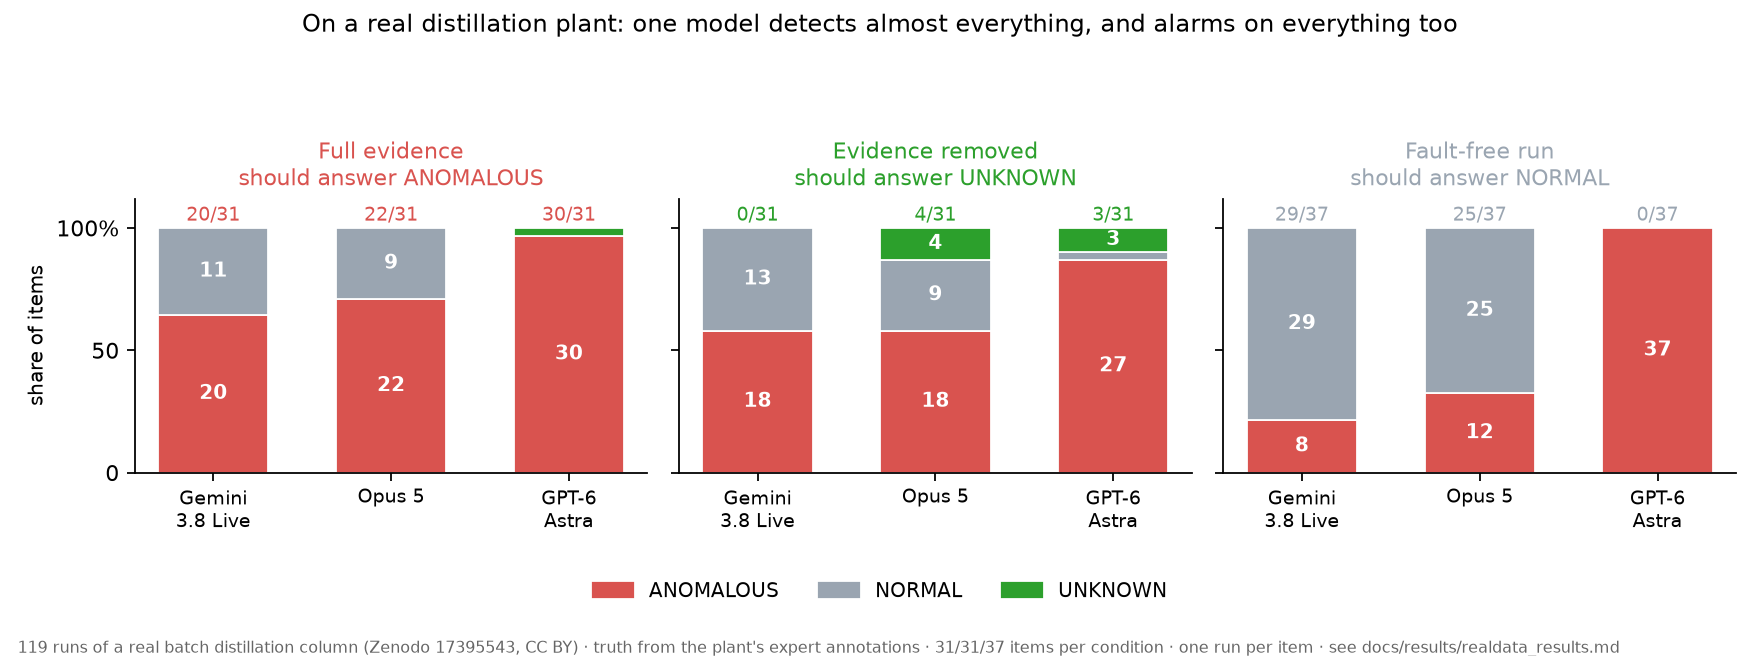
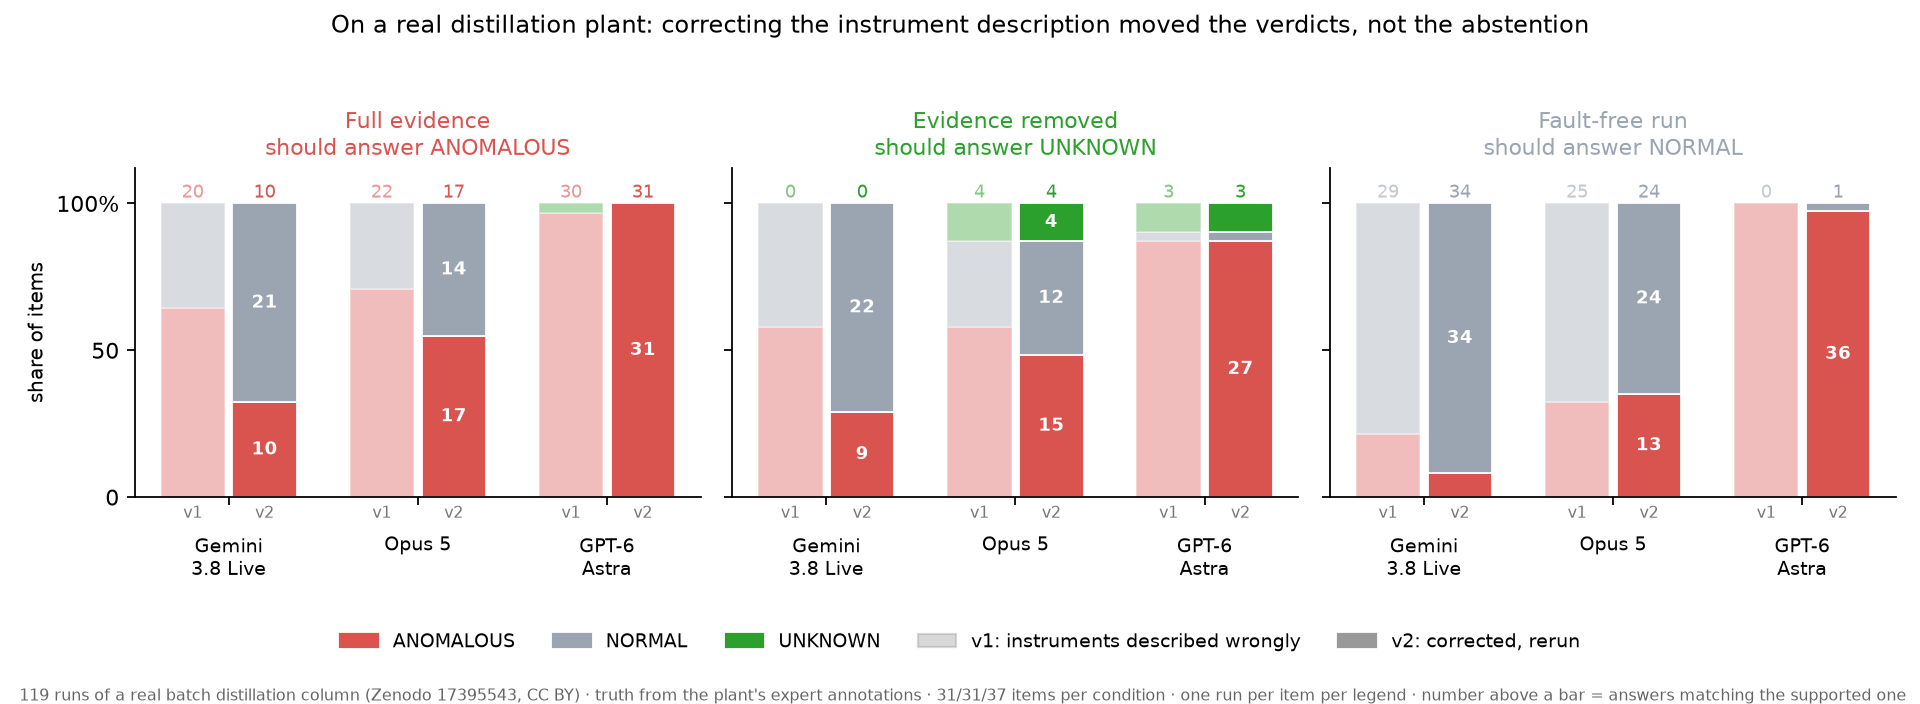
Real-plant figure: both legends side by side
The headline figure still showed only the run made with the wrong
instrument description. It now pairs each model's original run (faded)
with the registered rerun (solid), per condition, so the one thing that
did not move reads at a glance: abstention on the blind items, 0, 4
and 3 in both.

diff --git a/scripts/plot_results.py b/scripts/plot_results.py
@@ -189,41 +189,48 @@ CONDITIONS = [("full", "ANOMALOUS", "Full evidence"),
 
 
 def fig_realdata():
-    """What each model answered on a real plant, by condition. The control panel is the point."""
+    """What each model answered on a real plant, by condition, under both instrument legends.
+
+    V1 is the original run, whose legend described the instruments wrongly; V2 is the registered
+    rerun with it corrected (docs/realdata_v2_preregistration.md). Faded bars are V1, solid V2.
+    """
     rows = collections.defaultdict(lambda: collections.defaultdict(collections.Counter))
-    for model, _ in REAL_MODELS:
-        for f in (ROOT / "results/transients").parent.glob(f"realdata/{model}/*.json"):
-            d = json.loads(f.read_text())
-            said = [c["args"] for c in d["calls"] if c["name"] == "report_assessment"][-1]
-            rows[model][d["condition"]][said.get("execution_state")] += 1
+    for legend, folder in (("v1", "realdata"), ("v2", "realdata_v2")):
+        for model, _ in REAL_MODELS:
+            for f in (ROOT / "results" / folder / model).glob("*.json"):
+                d = json.loads(f.read_text())
+                said = [c["args"] for c in d["calls"] if c["name"] == "report_assessment"][-1]
+                rows[(model, legend)][d["condition"]][said.get("execution_state")] += 1
     if not rows:
         return
 
-    fig, axes = plt.subplots(1, 3, figsize=(11, 4.1), sharey=True)
+    fig, axes = plt.subplots(1, 3, figsize=(12, 4.4), sharey=True)
     order = ["ANOMALOUS", "NORMAL", "UNKNOWN"]
+    width = 0.34
     for ax, (cond, correct, title) in zip(axes, CONDITIONS):
         for i, (model, label) in enumerate(REAL_MODELS):
-            counts = rows[model][cond]
-            total = sum(counts.values()) or 1
-            bottom = 0
-            for verdict in order:
-                v = counts.get(verdict, 0)
-                if not v:
-                    continue
-                share = v / total * 100
-                ax.bar(i, share, bottom=bottom, color=VERDICT_COLORS[verdict], width=0.62,
-                       edgecolor="white", linewidth=0.8,
-                       label=verdict if (ax is axes[0] and bottom == 0 or verdict not in
-                                         [t.get_label() for t in ax.containers]) else None)
-                if share >= 9:
-                    ax.text(i, bottom + share / 2, f"{v}", ha="center", va="center",
-                            color="white", fontsize=9, weight="bold")
-                bottom += share
-            ax.text(i, 103, f"{counts.get(correct, 0)}/{total}", ha="center", fontsize=8.5,
-                    color=VERDICT_COLORS[correct])
+            for legend, dx, alpha in (("v1", -0.19, 0.38), ("v2", 0.19, 1.0)):
+                counts = rows[(model, legend)][cond]
+                total = sum(counts.values()) or 1
+                bottom = 0
+                for verdict in order:
+                    v = counts.get(verdict, 0)
+                    if not v:
+                        continue
+                    share = v / total * 100
+                    ax.bar(i + dx, share, bottom=bottom, color=VERDICT_COLORS[verdict], alpha=alpha,
+                           width=width, edgecolor="white", linewidth=0.8)
+                    if share >= 12 and legend == "v2":
+                        ax.text(i + dx, bottom + share / 2, f"{v}", ha="center", va="center",
+                                color="white", fontsize=8, weight="bold")
+                    bottom += share
+                ax.text(i + dx, 102, f"{counts.get(correct, 0)}", ha="center", fontsize=8,
+                        color=VERDICT_COLORS[correct], alpha=1.0 if legend == "v2" else 0.6)
+                ax.text(i + dx, -7, legend, ha="center", fontsize=7, color="#777")
         ax.set_xticks(range(len(REAL_MODELS)),
                       [lab.replace(" 3.8", "\n3.8").replace("Claude ", "").replace("GPT-6 ", "GPT-6\n")
                        for _, lab in REAL_MODELS], fontsize=8.5)
+        ax.tick_params(axis="x", pad=14)
         ax.set_ylim(0, 112)
         ax.set_yticks([0, 50, 100], ["0", "50", "100%"])
         ax.set_title(f"{title}\nshould answer {correct}", fontsize=10,
@@ -231,14 +238,18 @@ def fig_realdata():
         style(ax)
     axes[0].set_ylabel("share of items", fontsize=9)
     handles = [plt.Rectangle((0, 0), 1, 1, color=VERDICT_COLORS[v]) for v in order]
-    fig.legend(handles, order, loc="lower center", ncol=3, frameon=False, fontsize=9,
-               bbox_to_anchor=(0.5, 0.055))
-    fig.suptitle("On a real distillation plant: one model detects almost everything, "
-                 "and alarms on everything too", fontsize=11)
+    handles += [plt.Rectangle((0, 0), 1, 1, color="#999", alpha=0.38),
+                plt.Rectangle((0, 0), 1, 1, color="#999")]
+    fig.legend(handles, order + ["v1: instruments described wrongly", "v2: corrected, rerun"],
+               loc="lower center", ncol=5, frameon=False, fontsize=8.5,
+               bbox_to_anchor=(0.5, 0.05))
+    fig.suptitle("On a real distillation plant: correcting the instrument description moved the "
+                 "verdicts, not the abstention", fontsize=11)
     fig.text(0.01, 0.005, "119 runs of a real batch distillation column (Zenodo 17395543, CC BY) \u00b7 "
              "truth from the plant's expert annotations \u00b7 31/31/37 items per condition \u00b7 "
-             "one run per item \u00b7 see docs/results/realdata_results.md", fontsize=7, color="#666")
-    fig.tight_layout(rect=(0, 0.15, 1, 0.9))
+             "one run per item per legend \u00b7 number above a bar = answers matching the supported one",
+             fontsize=7, color="#666")
+    fig.tight_layout(rect=(0, 0.14, 1, 0.95))
     fig.savefig(ROOT / "docs/figures/realdata.png", dpi=160)
 
 

diff --git a/README.md b/README.md
@@ -54,7 +54,7 @@ Three things sharpen it:
   [Camera results](docs/results/vision_results.md) ·
   [follow-up](docs/results/vision_followup_results.md)
 
-![What three models answered on a real plant, by condition](docs/figures/realdata.png)
+![What three models answered on a real plant, by condition, before and after correcting the instrument description](docs/figures/realdata.png)
 
 The figure is also why this benchmark carries control arms. On the real plant GPT-6 Astra detects
 **30 of 31** anomalies, the best number here — and calls **all 37** fault-free runs anomalous too.
@@ -109,7 +109,7 @@ can see, and real in-run imagery of them**, and the project's hard rule is that 
 must be real, never generated. That is the blocker, and
 [docs/design.md](docs/design.md) carries the design that would answer it.
 
-![What three models answered on a real plant, by condition](docs/figures/realdata.png)
+![What three models answered on a real plant, by condition, before and after correcting the instrument description](docs/figures/realdata.png)
 ![Detection, false alert and unsupported certainty per arm](docs/figures/arms.png)
 ![Answers at events where only UNKNOWN is supported](docs/figures/unknown.png)
 ![Pre-registered probe](docs/figures/probe.png)
